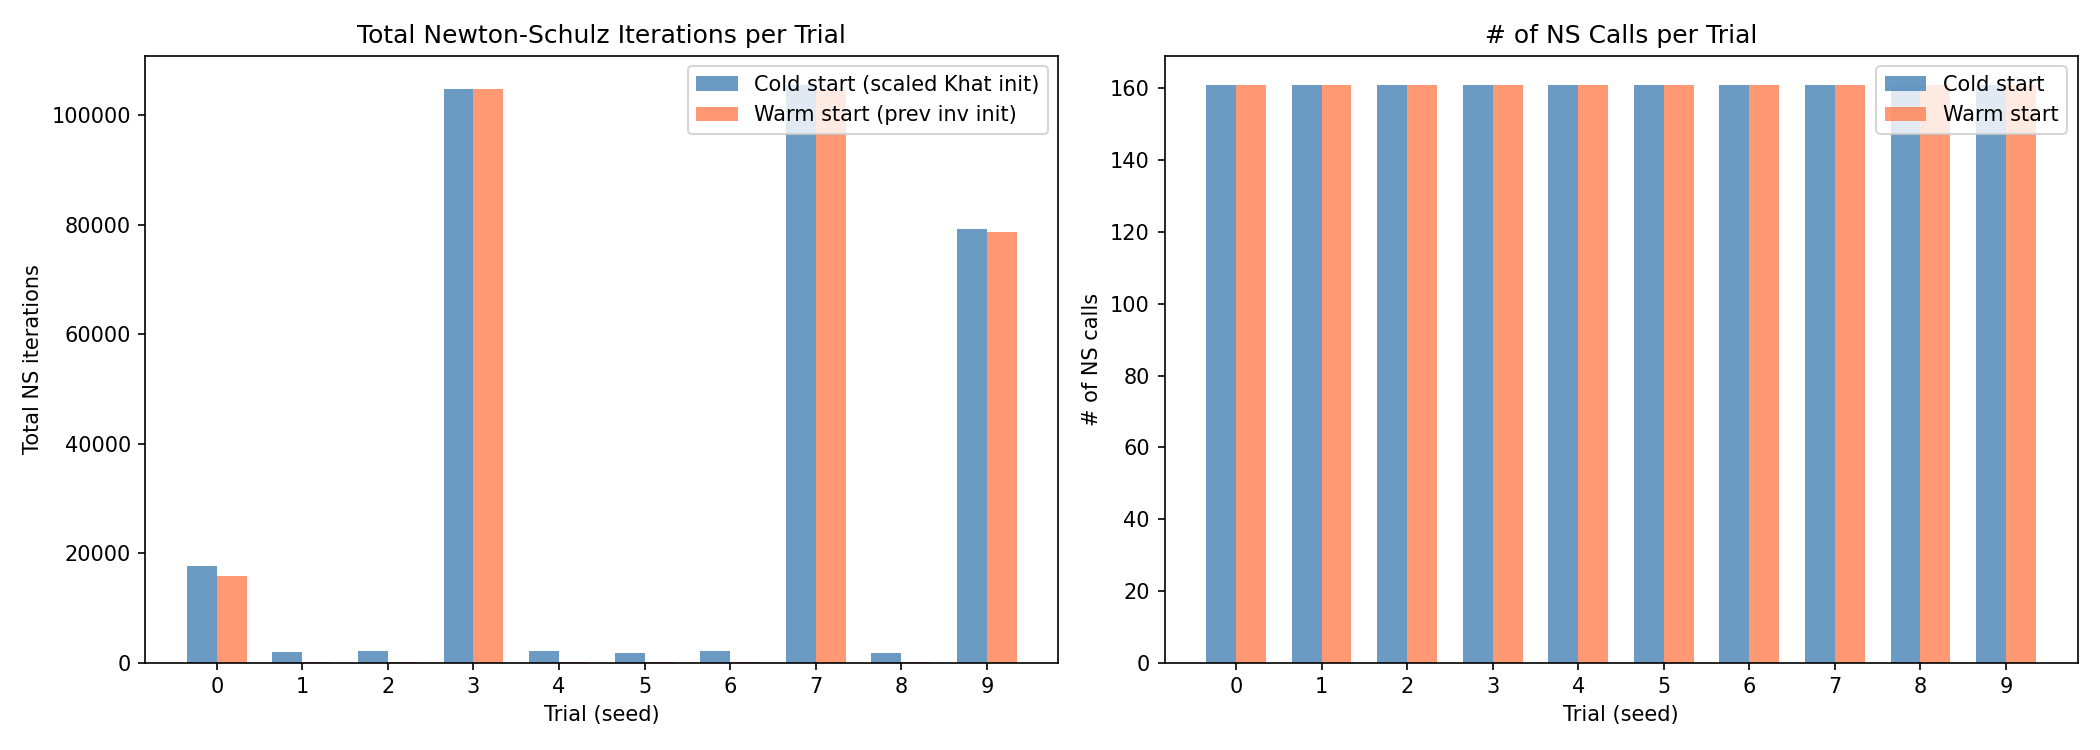
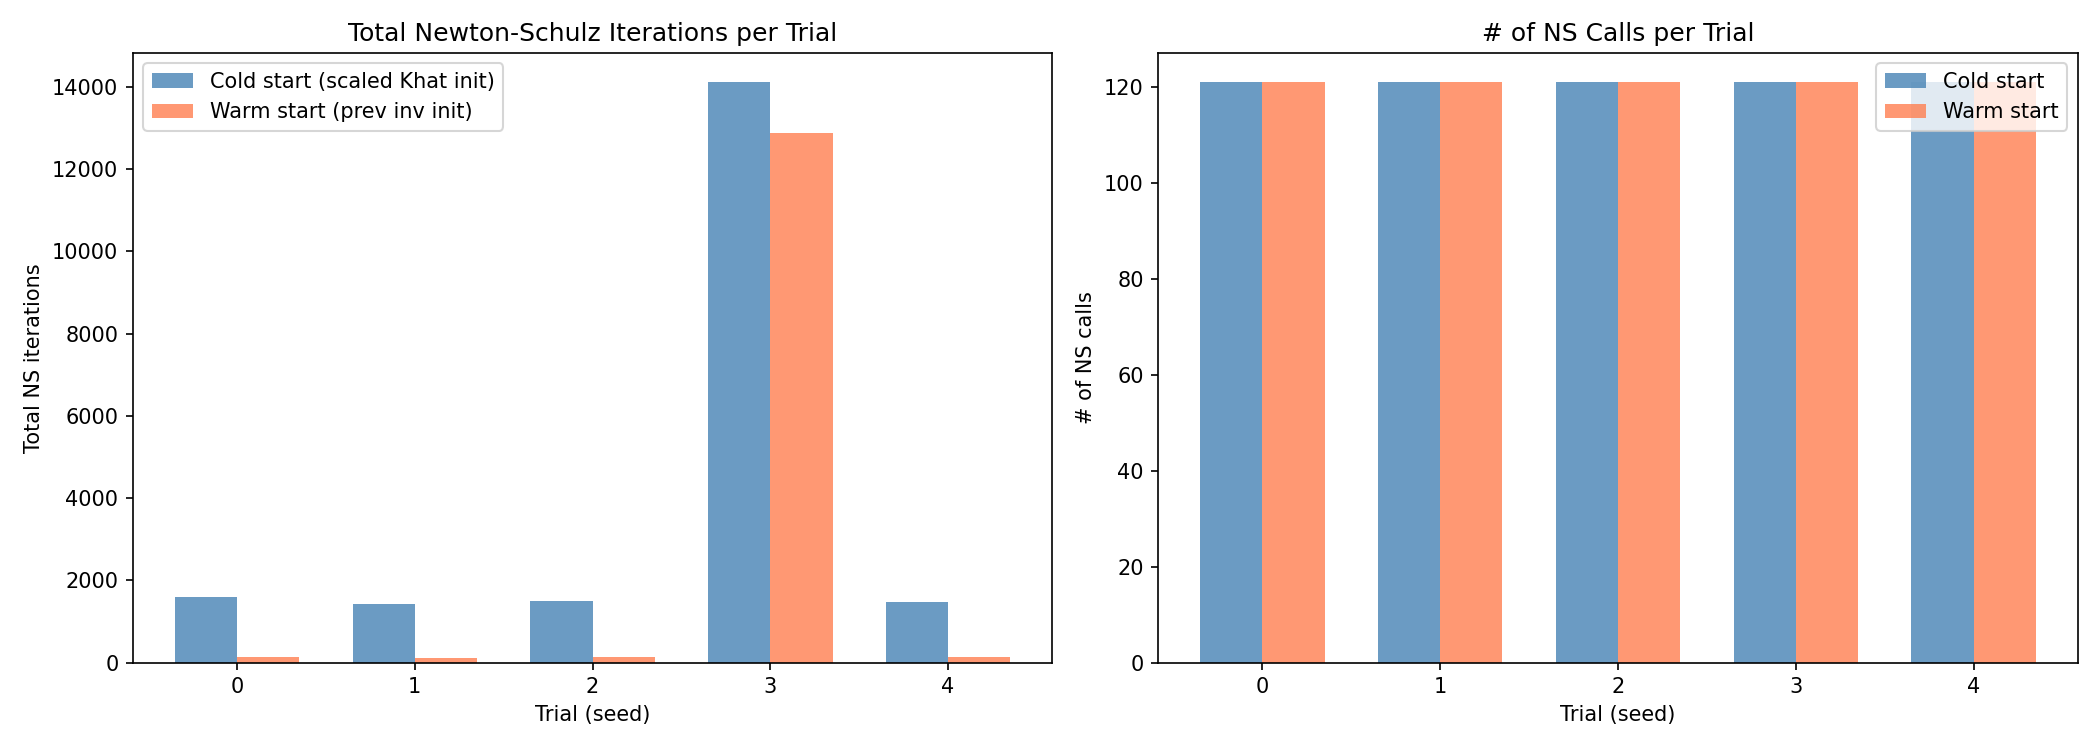
did some debugging and investigated the test_ns_iterations.py file

diff --git a/gauss_proc/GP.py b/gauss_proc/GP.py
@@ -75,7 +75,7 @@ class Kernel:
         return s1 + s2
 
 class GPR:
-    def __init__(self, n: int, d: int, kername: str, noise: float, use_ns: bool = False, use_prev_inv_init: bool = False):
+    def __init__(self, n: int, d: int, kername: str, noise: float, use_ns: bool = False, use_prev_inv_init: bool = False, verbose: bool = False):
         self.n = n # number of data samples
         self.d = d # dimension of data
         self.sig = noise # estimate for noise variance
@@ -84,6 +84,7 @@ class GPR:
         self._last_Khat_inv = None
         self._khat_inv_cache: tuple[NDArray[np.float64], NDArray[np.float64]] | None = None  # (theta, Khati)
         self.ns_iterations_list: list[int] = []  # filled during grad_dec when tracking
+        self.verbose = verbose
 
         match kername:
             case "RBF":
@@ -108,6 +109,10 @@ class GPR:
             
             case _:
                 raise TypeError("Unrecognized kernel name")
+
+    def log_(self, s, end='\n'):
+        if self.verbose:
+            print(s, end=end)
 
     # add the input data for the regression (does not train the hyperparameters, just adds input data for a given set of hyperparameters
     def add_inputs(self, x:NDArray[np.float64], y:NDArray[np.float64]):
@@ -155,7 +160,7 @@ class GPR:
             G0 = self._last_Khat_inv.copy()
         else:
             G0 = Khat / (np.linalg.norm(Khat, 1) * np.linalg.norm(Khat, np.inf))
-        Khati, _, n_iters = Newton_Shulz(Khat, initial_guess=G0, verbose=False)
+        Khati, _, n_iters = Newton_Shulz(Khat, initial_guess=G0, verbose=self.verbose)
         self._last_Khat_inv = Khati.copy()
         if cache_key is not None:
             self._khat_inv_cache = (cache_key.copy(), Khati.copy())
@@ -177,7 +182,7 @@ class GPR:
 
     # compute the derivative of the NEGATIVE log liklihood (for gradient descent optimization)
     def log_like_der(self):
-        # formula is tr( (Khati - (Khati * y)(Khati * y)^T) * dKhat/dtheta)
+        # formula is 1/2 * tr( (Khati - (Khati * y)(Khati * y)^T) * dKhat/dtheta)
         # create the derivative matrices 
         der_tens = self.ker.compute_dKdtheta(self.X) # nxnxt tensor where t is the number of parameters in theta vector
         Khat = self.ker.mat + self.sig**2 * np.eye(self.n)
@@ -190,7 +195,7 @@ class GPR:
             # term2 = 1/2 * np.trace(Khati @ der_tens[:,:,i])
             # outvec[i] = term1 - term2
             m1 = np.outer(Khati @ self.y, Khati @ self.y)
-            outvec[i] = np.trace((Khati - m1) @ der_tens[:,:,i])
+            outvec[i] = 1/2 * np.trace((Khati - m1) @ der_tens[:,:,i])
 
         return outvec
 
@@ -207,9 +212,9 @@ class GPR:
 
     # do gradient descent to find the best theta in terms of the log liklihood
     def grad_dec_theta(self, theta0, alpha:float, eps:float = 1e-5, return_theta:bool = False, return_ns_iterations:bool = False, max_iter:int = 1000):
-        print("Running gradient descent with theta0 = ", theta0)
-        print(f"Using a stopping condition of ||nabla f||^2 < {eps}")
-        print(f"Using a step size of {alpha}")
+        self.log_(f"Running gradient descent with theta0 = {theta0}")
+        self.log_(f"Using a stopping condition of ||nabla f||^2 < {eps}")
+        self.log_(f"Using a step size of {alpha}")
         theta = np.copy(theta0) # for storing iterations
         self.set_theta(theta)
         self.ker.compute(self.X)
@@ -226,12 +231,13 @@ class GPR:
         nabla = self.log_like_der()
         iter = 0
         while (np.linalg.norm(nabla) > eps):
-            print(f"Iteration {iter}")
+            self.log_(f"Iteration {iter}")
             iter += 1
             if (iter > max_iter):
                 break
-            print("theta = ", theta)
-            print("log liklihood = ", self.log_like())
+            self.log_("theta = ", end=' ')
+            self.log_(theta)
+            self.log_(f"log liklihood = {self.log_like()}")
             nabla = self.log_like_der()
             theta = theta - alpha * nabla
             self.set_theta(theta)

diff --git a/gauss_proc/test_ns_iterations.py b/gauss_proc/test_ns_iterations.py
@@ -18,11 +18,11 @@ import io
 import contextlib
 
 # --- Config ---
-N_TRIALS = 10
+N_TRIALS = 5
 N_POINTS = 20
 SIG = 0.01
 ALPHA = 1e-6
-MAX_ITER = 80
+MAX_ITER = 60
 EPS = 1e-5
 
 def run_single_trial(seed: int, use_prev_inv_init: bool):
@@ -34,11 +34,11 @@ def run_single_trial(seed: int, use_prev_inv_init: bool):
     y = np.sin(x * 2 * np.pi) + sig * np.random.randn(n)
 
     theta0 = np.array([0.1, 0.01])
-    gp = GP.GPR(n, 1, "RBF", sig, use_ns=True, use_prev_inv_init=use_prev_inv_init)
+    gp = GP.GPR(n, 1, "RBF", sig, use_ns=True, use_prev_inv_init=use_prev_inv_init, verbose=False)
     gp.fit(np.array([x]), y, np.array([sig * 10, 1e-2]))
 
-    with contextlib.redirect_stdout(io.StringIO()):
-        result = gp.grad_dec_theta(theta0, alpha=ALPHA, max_iter=MAX_ITER, eps=EPS,
+    # with contextlib.redirect_stdout(io.StringIO()):
+    result = gp.grad_dec_theta(theta0, alpha=ALPHA, max_iter=MAX_ITER, eps=EPS,
                                    return_theta=True, return_ns_iterations=True)
     theta_hist, ns_iters = result
     return theta_hist, ns_iters
@@ -65,6 +65,7 @@ def main():
         print(f"Trial {trial + 1}/{N_TRIALS} (seed={seed})...")
 
         # Cold start (scaled Khat as init each time)
+        print("Cold start")
         theta_c, ns_c = run_single_trial(seed, use_prev_inv_init=False)
         cold_iters_all.append(ns_c)
         cold_totals.append(sum(ns_c))
@@ -72,6 +73,7 @@ def main():
         cold_per_gd.append(ns_c)
 
         # Warm start (prev inverse as init)
+        print("Warm start")
         theta_w, ns_w = run_single_trial(seed, use_prev_inv_init=True)
         warm_iters_all.append(ns_w)
         warm_totals.append(sum(ns_w))

diff --git a/gauss_proc/test_ns_vs_inv.py b/gauss_proc/test_ns_vs_inv.py
@@ -6,7 +6,7 @@ import matplotlib.pyplot as plt
 import time
 import io, contextlib
 
-np.random.seed(0)
+np.random.seed(2)
 
 n = 13
 sig = 0.01
@@ -25,8 +25,7 @@ gp_inv = GP.GPR(n, 1, "RBF", sig, use_ns=False)
 gp_inv.fit(np.array([x]), y, np.array([sig * 10, 1e-2]))
 
 t0 = time.perf_counter()
-with contextlib.redirect_stdout(io.StringIO()):
-    theta_hist_inv = gp_inv.grad_dec_theta(theta0, alpha=alpha, max_iter=max_iter, return_theta=True)
+theta_hist_inv = gp_inv.grad_dec_theta(theta0, alpha=alpha, max_iter=max_iter, return_theta=True)
 time_inv = time.perf_counter() - t0
 
 pred_inv = gp_inv.predict_aft_K(xth)
@@ -36,12 +35,11 @@ gp_ns = GP.GPR(n, 1, "RBF", sig, use_ns=True)
 gp_ns.fit(np.array([x]), y, np.array([sig * 10, 1e-2]))
 
 t0 = time.perf_counter()
-with contextlib.redirect_stdout(io.StringIO()):
-    theta_hist_ns = gp_ns.grad_dec_theta(theta0, alpha=alpha, max_iter=max_iter, return_theta=True)
+theta_hist_ns = gp_ns.grad_dec_theta(theta0, alpha=alpha, max_iter=max_iter, return_theta=True)
 time_ns = time.perf_counter() - t0
 
-with contextlib.redirect_stdout(io.StringIO()):
-    pred_ns = gp_ns.predict_aft_K(xth)
+
+pred_ns = gp_ns.predict_aft_K(xth)
 
 # --- log-likelihood traces (use exact inv for fair LL comparison) ---
 ll_inv = []

diff --git a/matrix_functions.py b/matrix_functions.py
@@ -81,7 +81,8 @@ def Newton_Shulz(A: ArrayLike, loops: int = 2000, initial_guess: ArrayLike | Non
         except (OverflowError, RuntimeWarning):
             _log(f"Newton-Schulz overflowed at iteration {i}")
             break
-
+    if (i == loops - 1):
+        _log(f"Newton_Schulz exceeded the max number of iterations and has error {current_error}")
     elapsed_time = time.perf_counter() - start_time
     _log(f"Newton_Shulz took {elapsed_time:.4f} seconds to execute.")
     return (G, allG, i)
